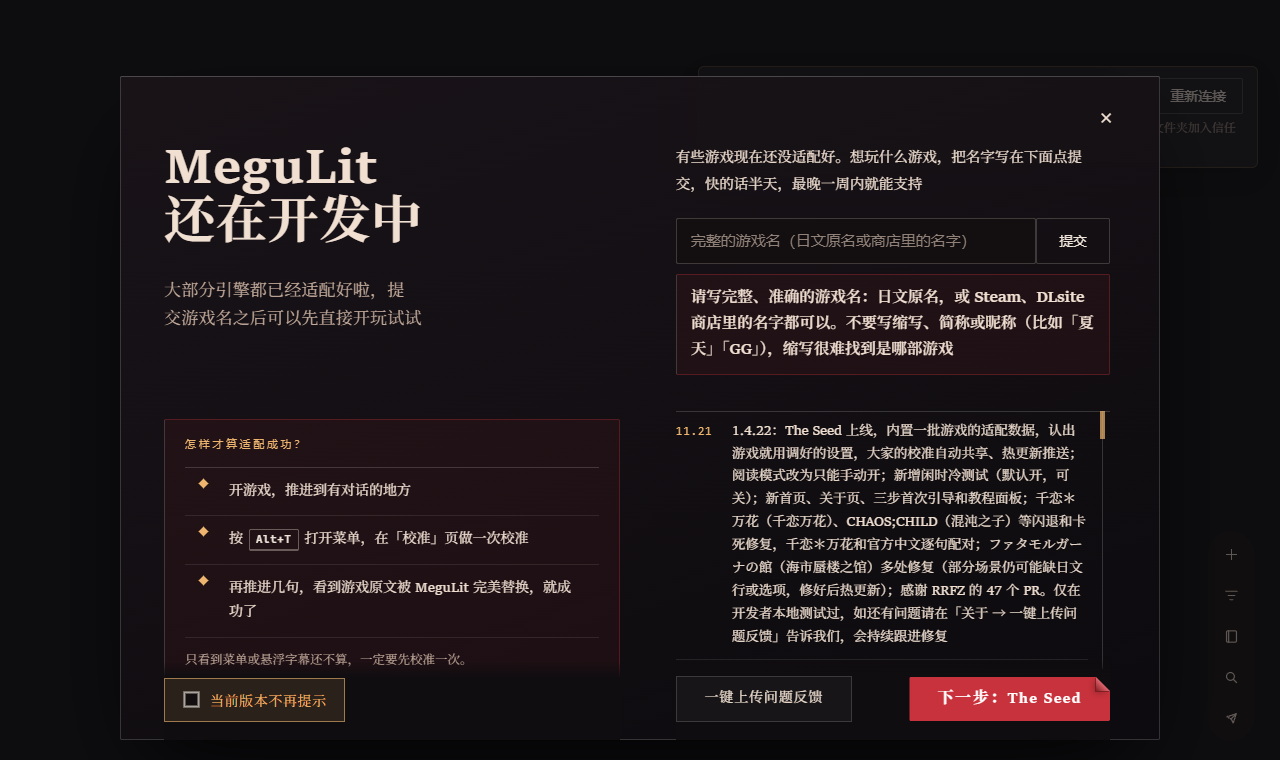
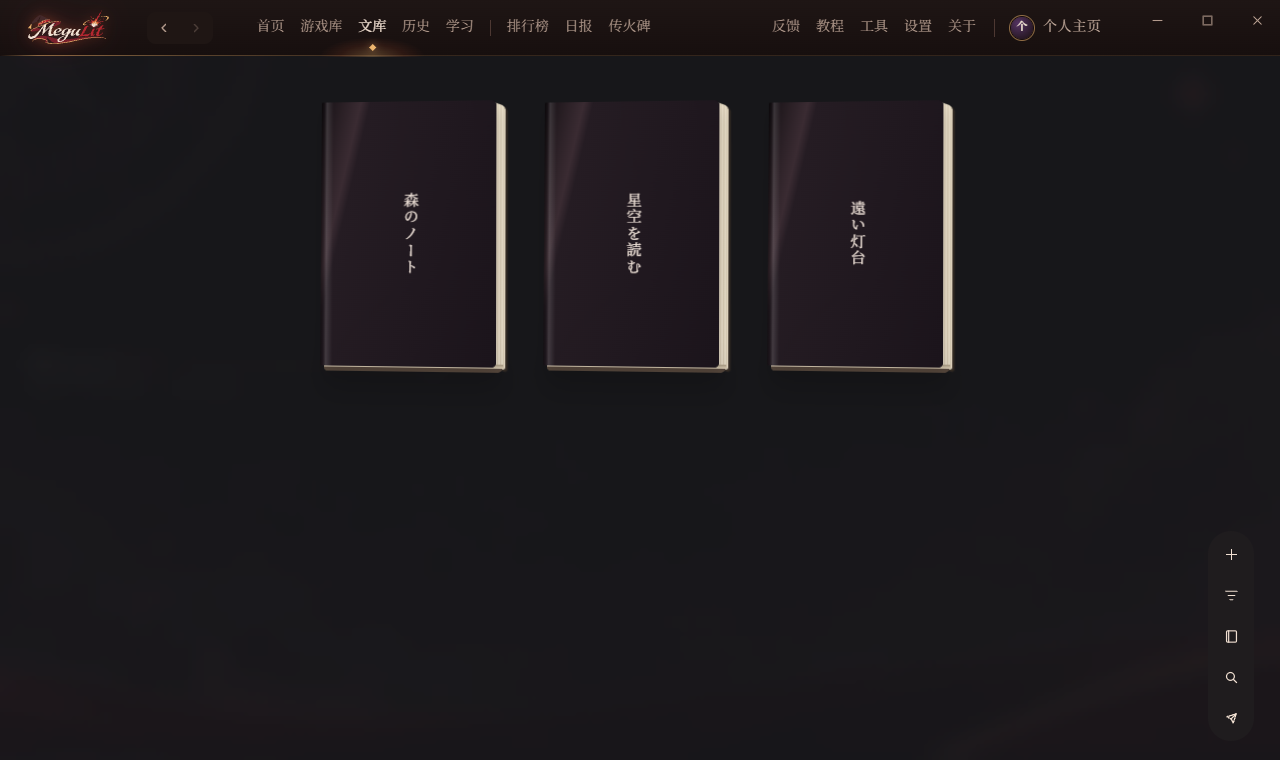
补充文库界面截图并适配桌面资源策略

diff --git a/web/novel-pdf-reader.js b/web/novel-pdf-reader.js
@@ -167,7 +167,7 @@ export function openPdfReader(host, { api, esc, locale, id, startPage = 0, onExi
     loading = pdf.getDocument({
       range: transport, rangeChunkSize: chunkSize, disableAutoFetch: true, disableStream: true,
       cMapUrl: asset('cmaps/'), cMapPacked: true, standardFontDataUrl: asset('standard_fonts/'),
-      wasmUrl: asset('wasm/'), iccUrl: asset('iccs/'), isEvalSupported: false, enableXfa: false,
+      wasmUrl: asset('wasm/'), iccUrl: asset('iccs/'), useWasm: false, isEvalSupported: false, enableXfa: false,
     });
     loading.onPassword = updatePassword => {
       status.hidden = true;
